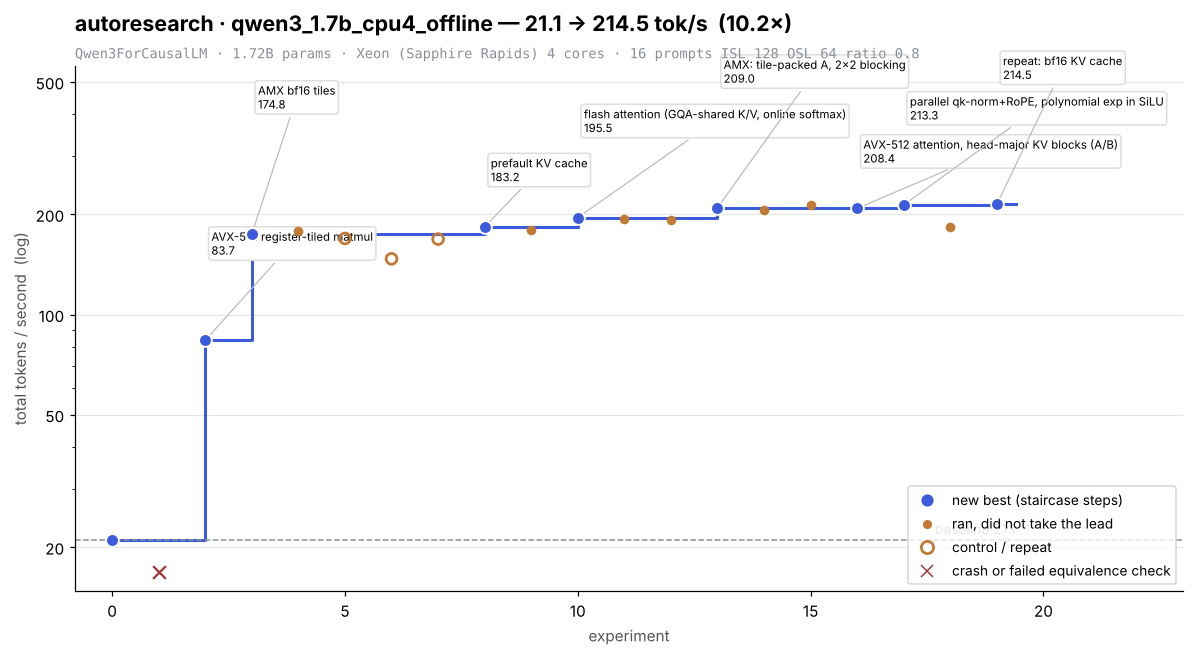
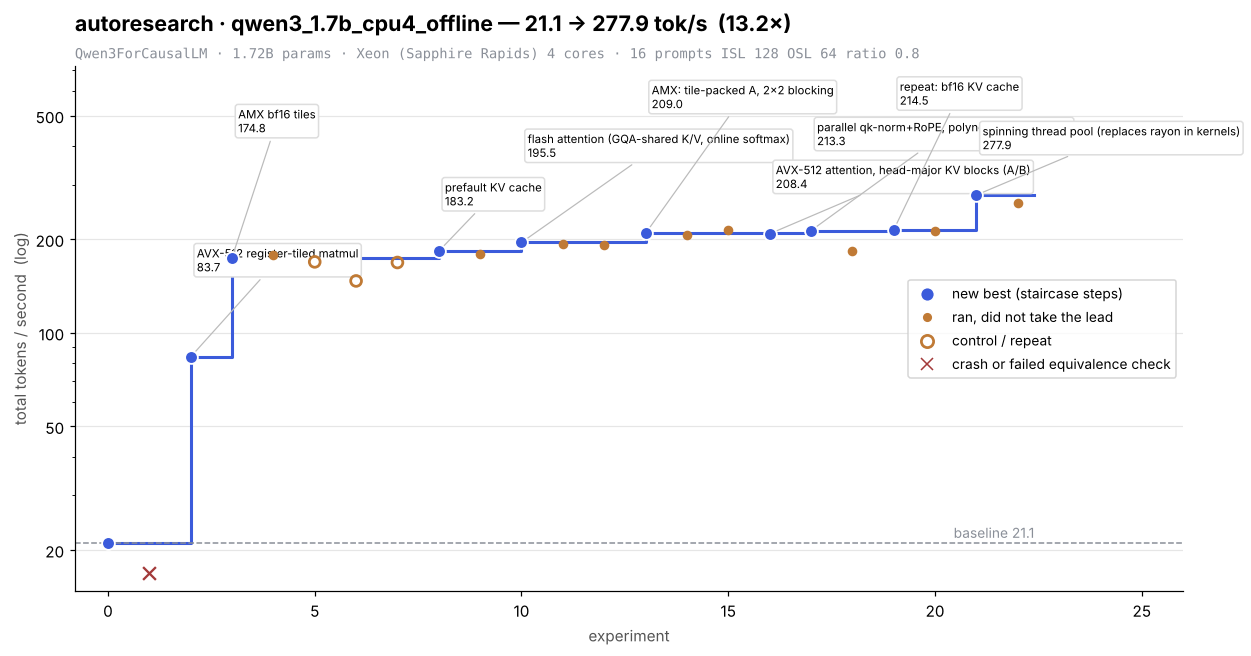
Regenerate autoresearch chart through iteration 22
Claude-Session: https://claude.ai/code/session_01PaJy8s4NMW2Y22xLhWoDVd

diff --git a/tools/plot_autoresearch.py b/tools/plot_autoresearch.py
@@ -73,7 +73,7 @@ def main():
         plt.Line2D([], [], marker="o", color="w", markerfacecolor="none", markeredgecolor=ORANGE, markeredgewidth=1.8, markersize=8, label="control / repeat"),
         plt.Line2D([], [], marker="x", color=RED, linestyle="none", markersize=8, label="crash or failed equivalence check"),
     ]
-    ax.legend(handles=handles, loc="lower right", frameon=True, fontsize=9)
+    ax.legend(handles=handles, loc="center right", frameon=True, fontsize=9)
     fig.savefig(out, bbox_inches="tight")
     print("wrote", out)
 
